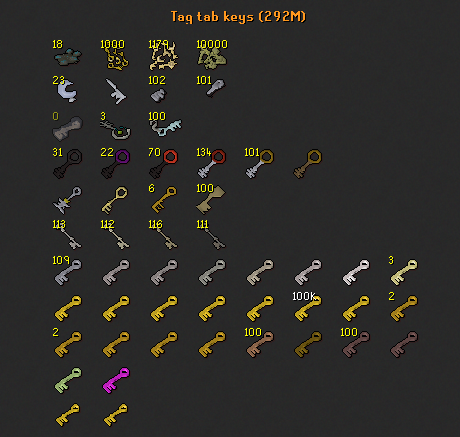
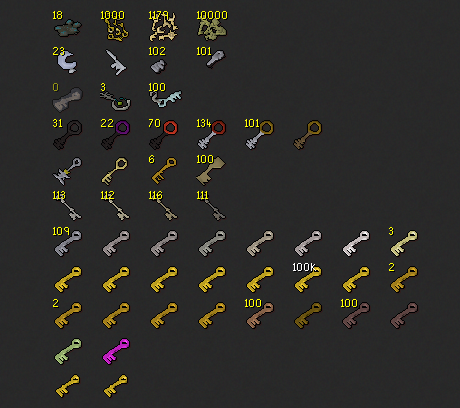
Use the cropped bank screenshots for tabs 3-5

diff --git a/secret.md b/secret.md
@@ -673,9 +673,9 @@ b, strong {
   <div class="bank-body">
     <img class="bank-page" data-tab="1" src="/assets/img/hobbies/bank-1.png" alt="Bank tab 1" width="460" height="659">
     <img class="bank-page" data-tab="2" src="/assets/img/hobbies/bank-2.png" alt="Bank tab 2" width="460" height="952" hidden>
-    <img class="bank-page" data-tab="3" src="/assets/img/hobbies/bank-3.png" alt="Bank tab 3: keys" width="460" height="437" loading="lazy" hidden>
-    <img class="bank-page" data-tab="4" src="/assets/img/hobbies/bank-4.png" alt="Bank tab 4: books" width="460" height="905" loading="lazy" hidden>
-    <img class="bank-page" data-tab="5" src="/assets/img/hobbies/bank-5.png" alt="Bank tab 5: the whole bank" width="460" height="6381" loading="lazy" hidden>
+    <img class="bank-page" data-tab="3" src="/assets/img/hobbies/bank-3.png?v=2" alt="Bank tab 3: keys" width="460" height="408" loading="lazy" hidden>
+    <img class="bank-page" data-tab="4" src="/assets/img/hobbies/bank-4.png?v=2" alt="Bank tab 4: books" width="460" height="875" loading="lazy" hidden>
+    <img class="bank-page" data-tab="5" src="/assets/img/hobbies/bank-5.png?v=2" alt="Bank tab 5: the whole bank" width="460" height="6347" loading="lazy" hidden>
   </div>
 </div>
 
